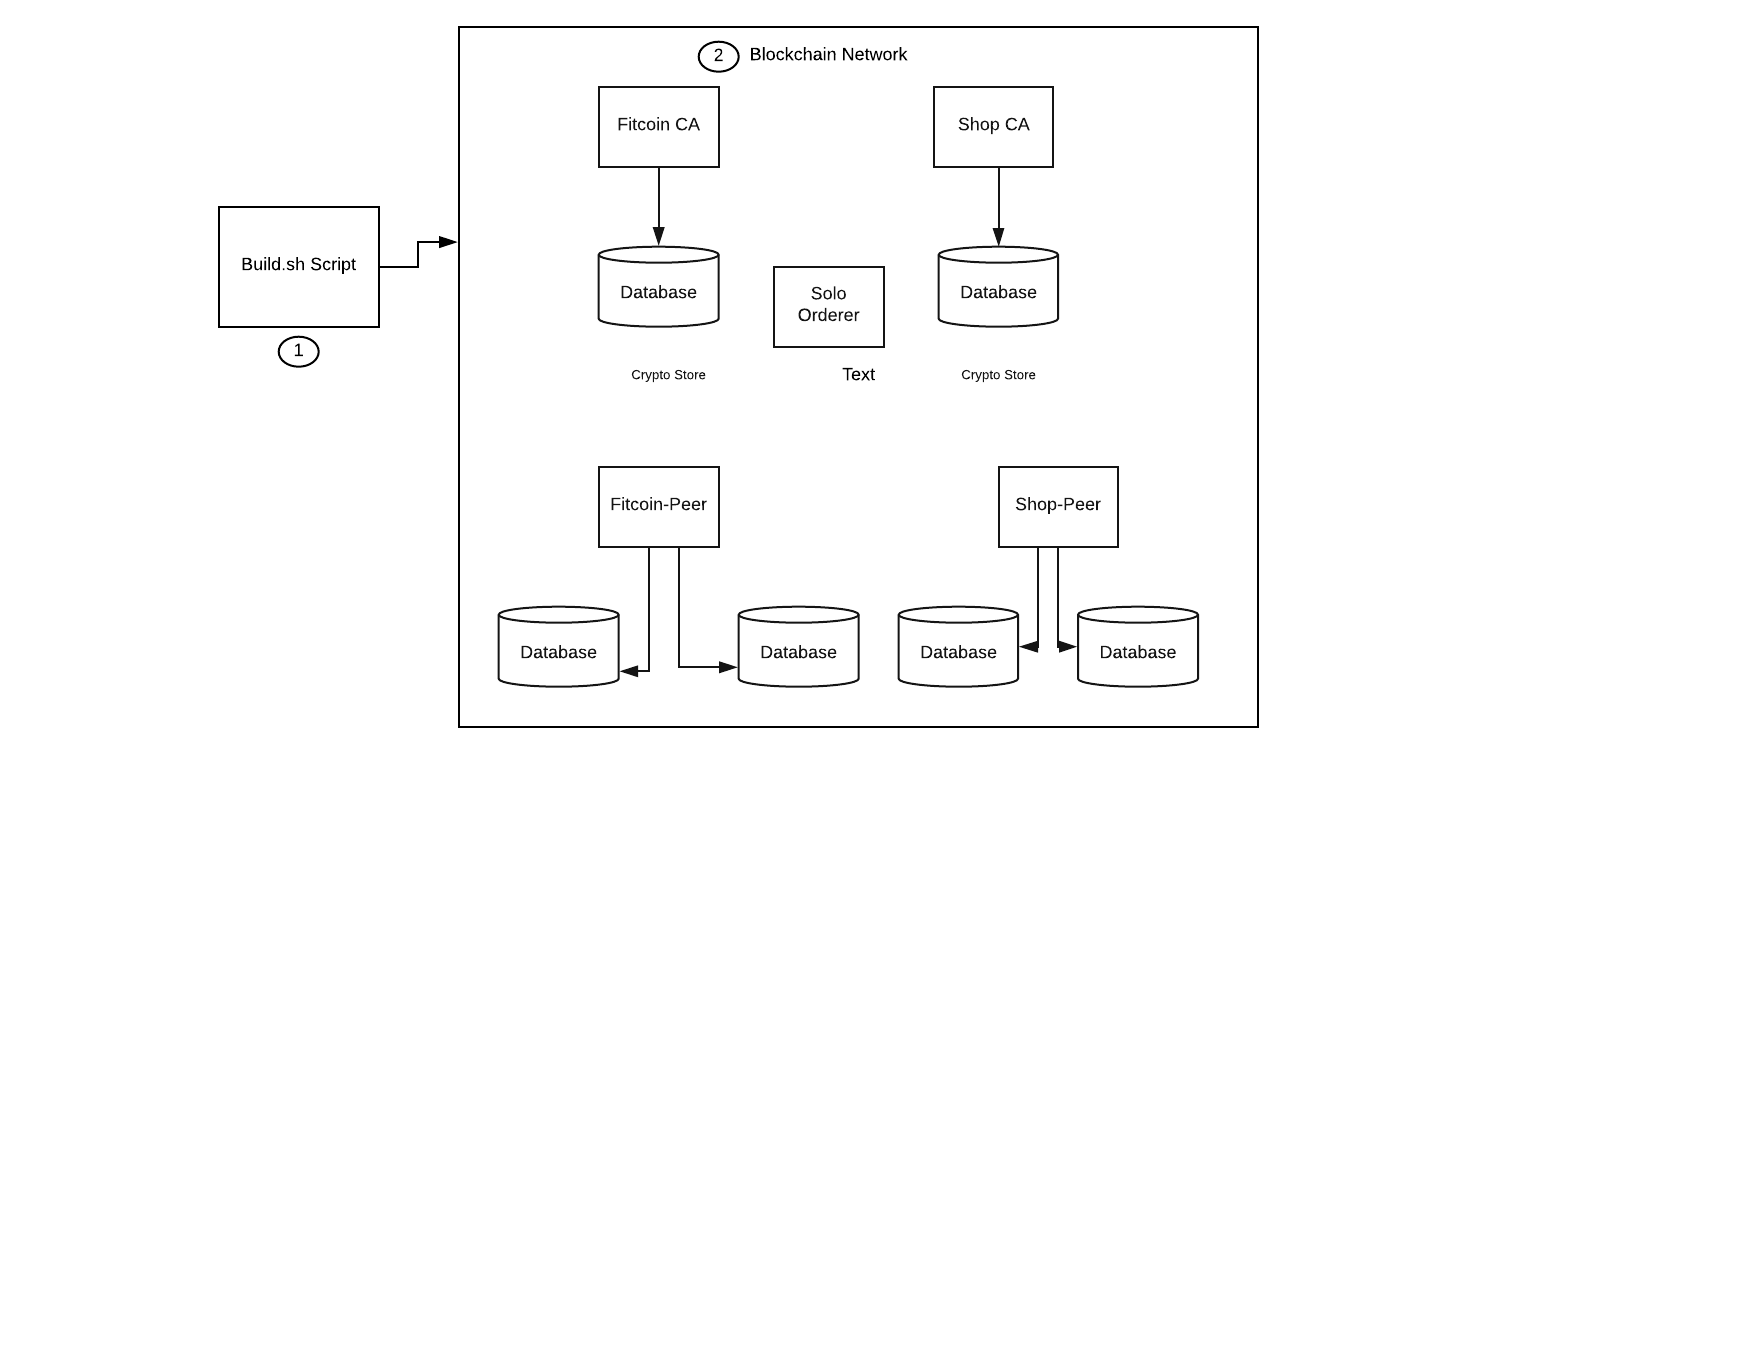
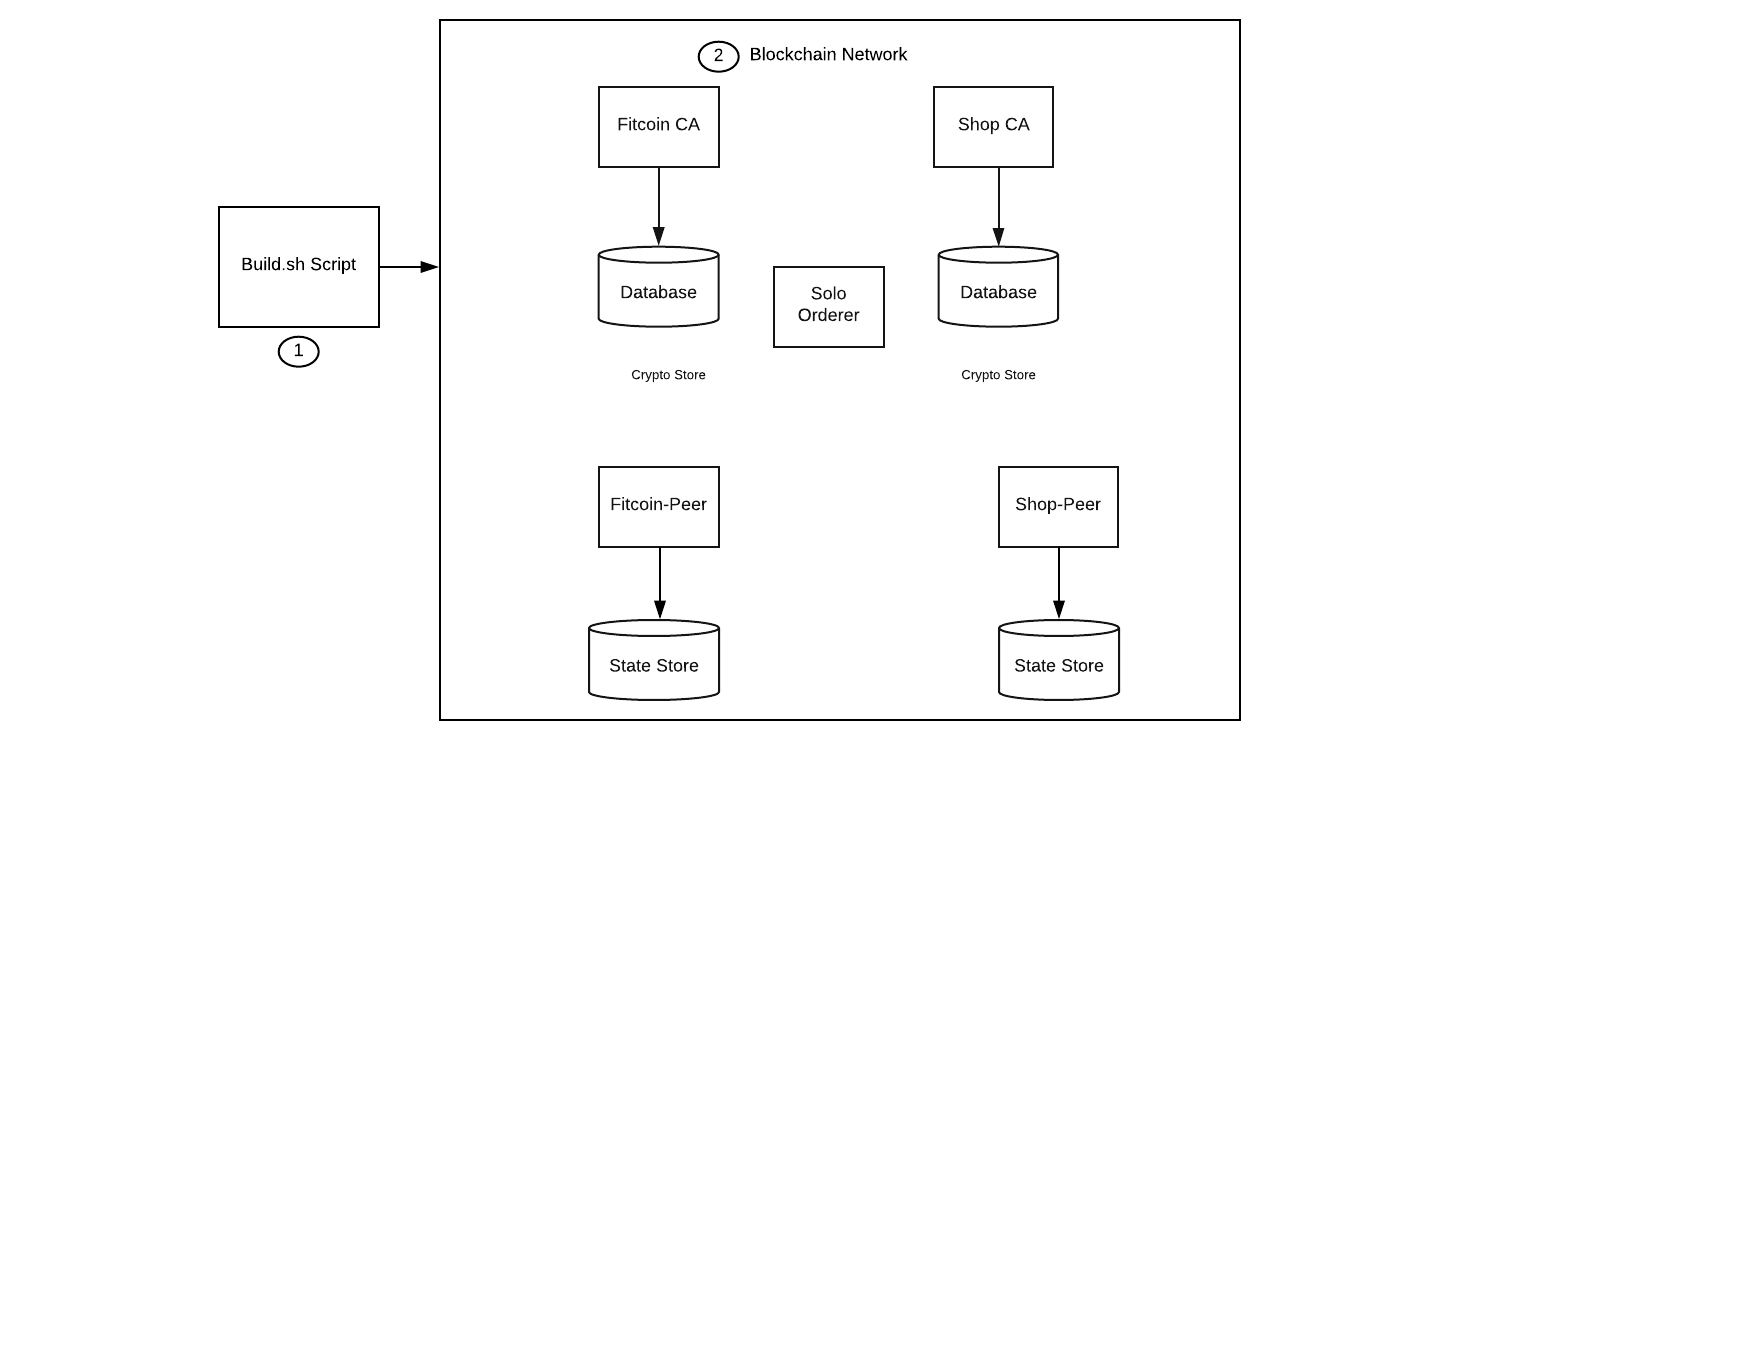
updating image and readme

Changed region(s): [[0.2812, 0.4324, 0.6875, 0.525], [0.25, 0.0, 0.2812, 0.0309]]

diff --git a/README.md b/README.md
@@ -1,12 +1,13 @@
-# BuildingABlockchainApplicationOutsideofComposer
+# Creating and Deploying a Blockchain Network using Hyperledger Fabric Node SDK
 
 ## Instructions for setting the blockchainNetwork
 
-Welcome to Part 1 of building a Blockchain Application using an alternative approach to using the Hyperledger Composer tooling. The first step is focused on creating and deploying a Hyperledger Blockchain Network.
+Welcome to Part 1 of building a Blockchain Application.  The first step is focused on creating and deploy a Hyperledger Blockchain Network using the Hyperledger Fabric Node SDK. 
 
 ## Included Components
 * Hyperledger Fabric
 * Docker
+* Hyperledger Fabric SDK for node.js
 
 
 ## Application Workflow Diagram
